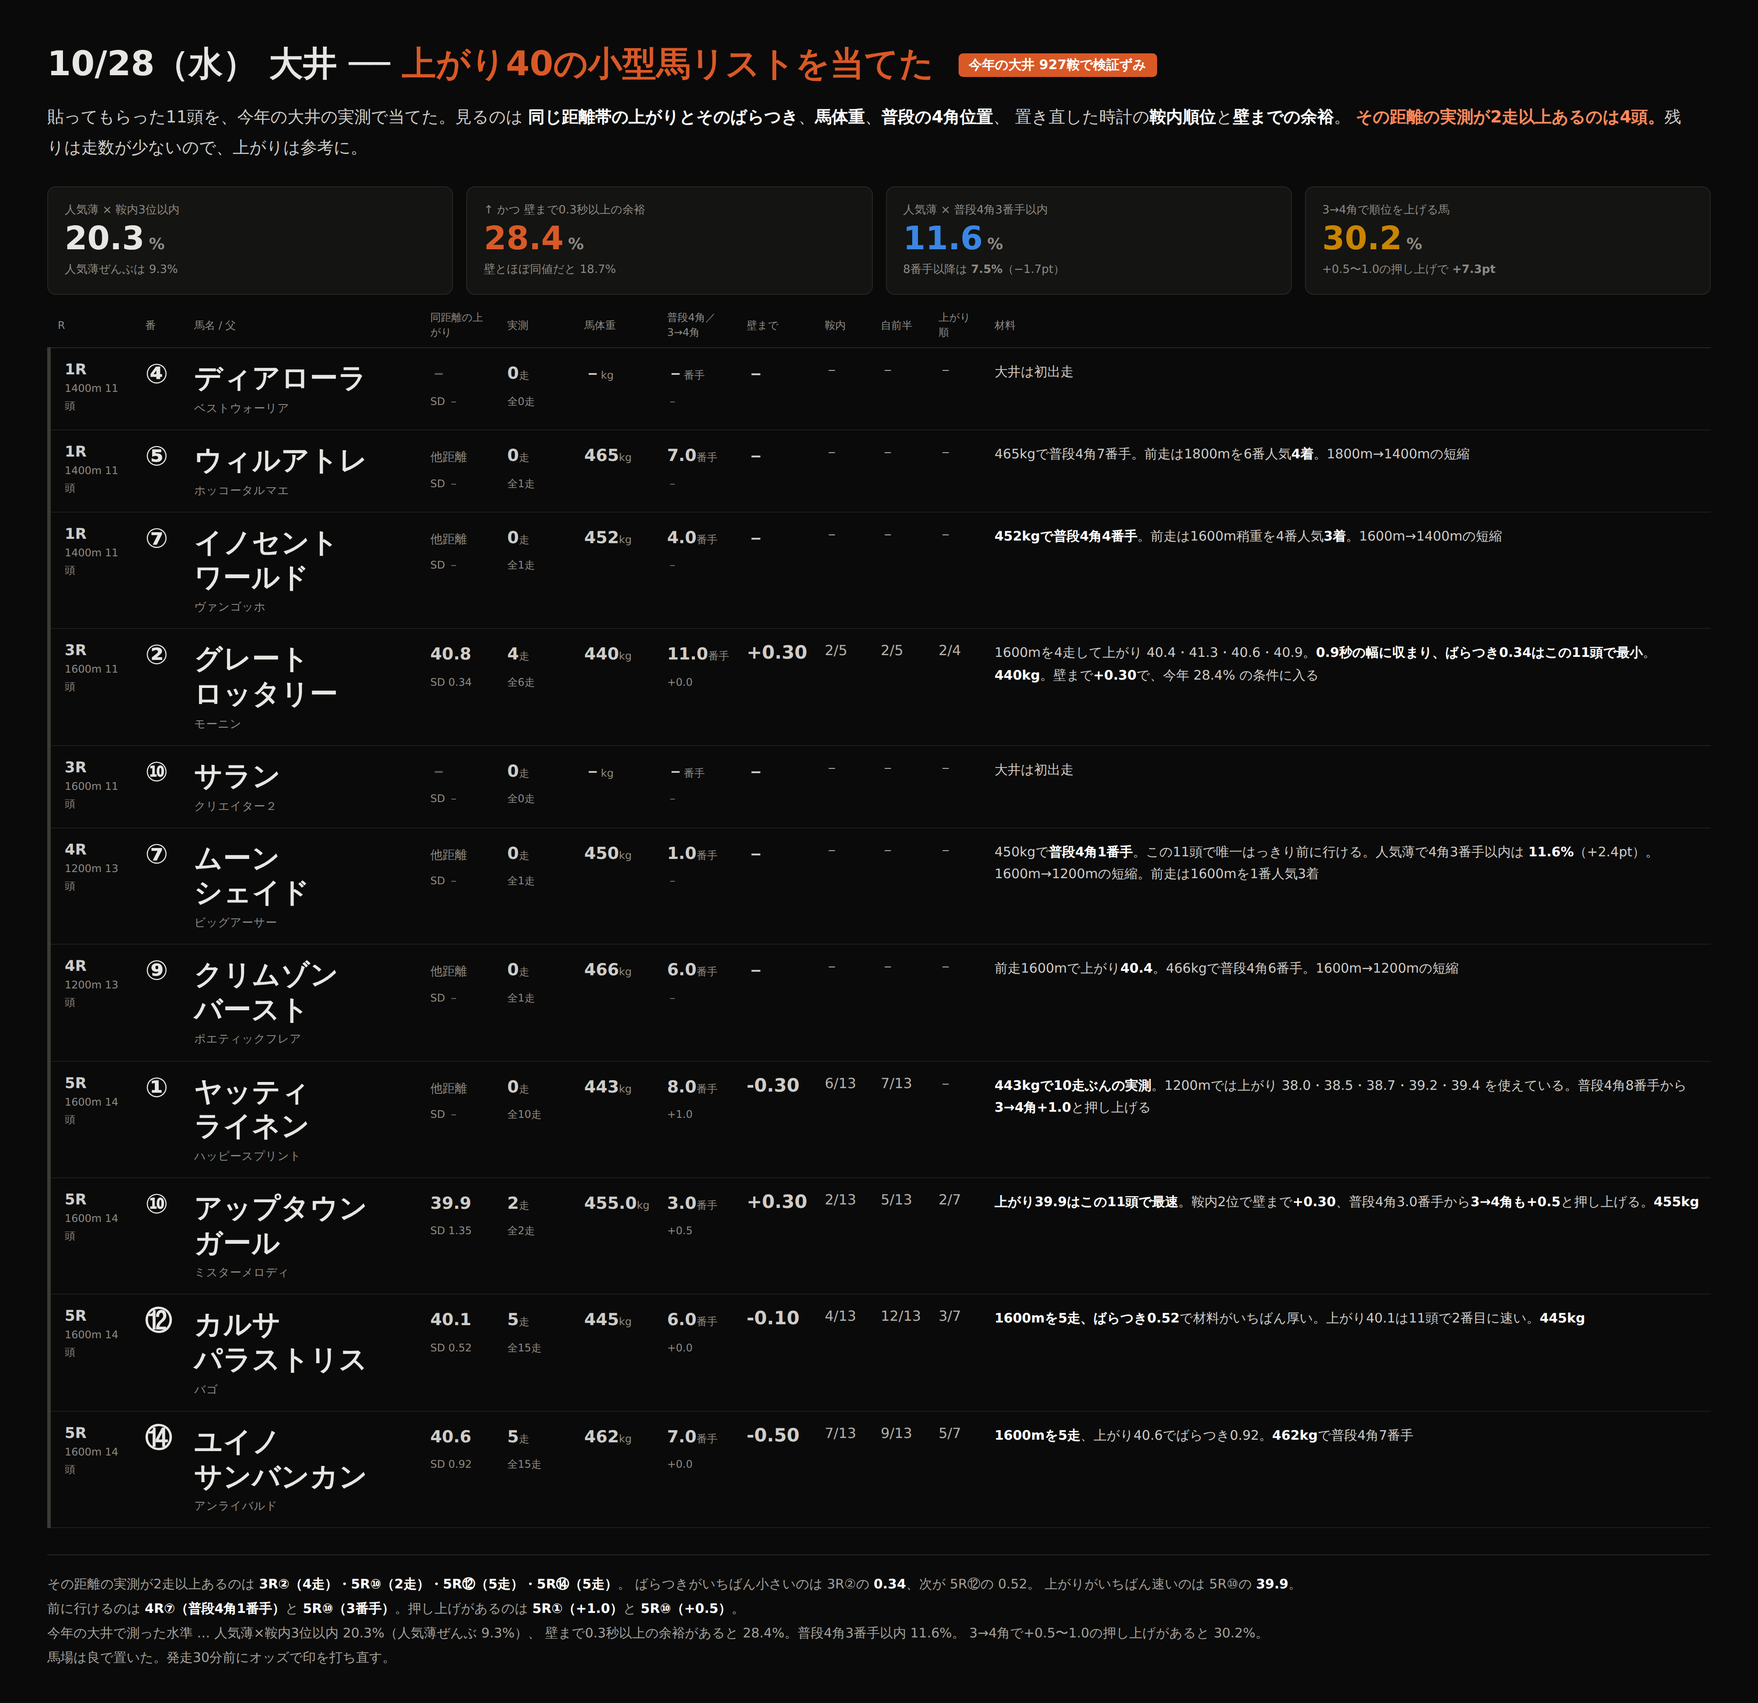
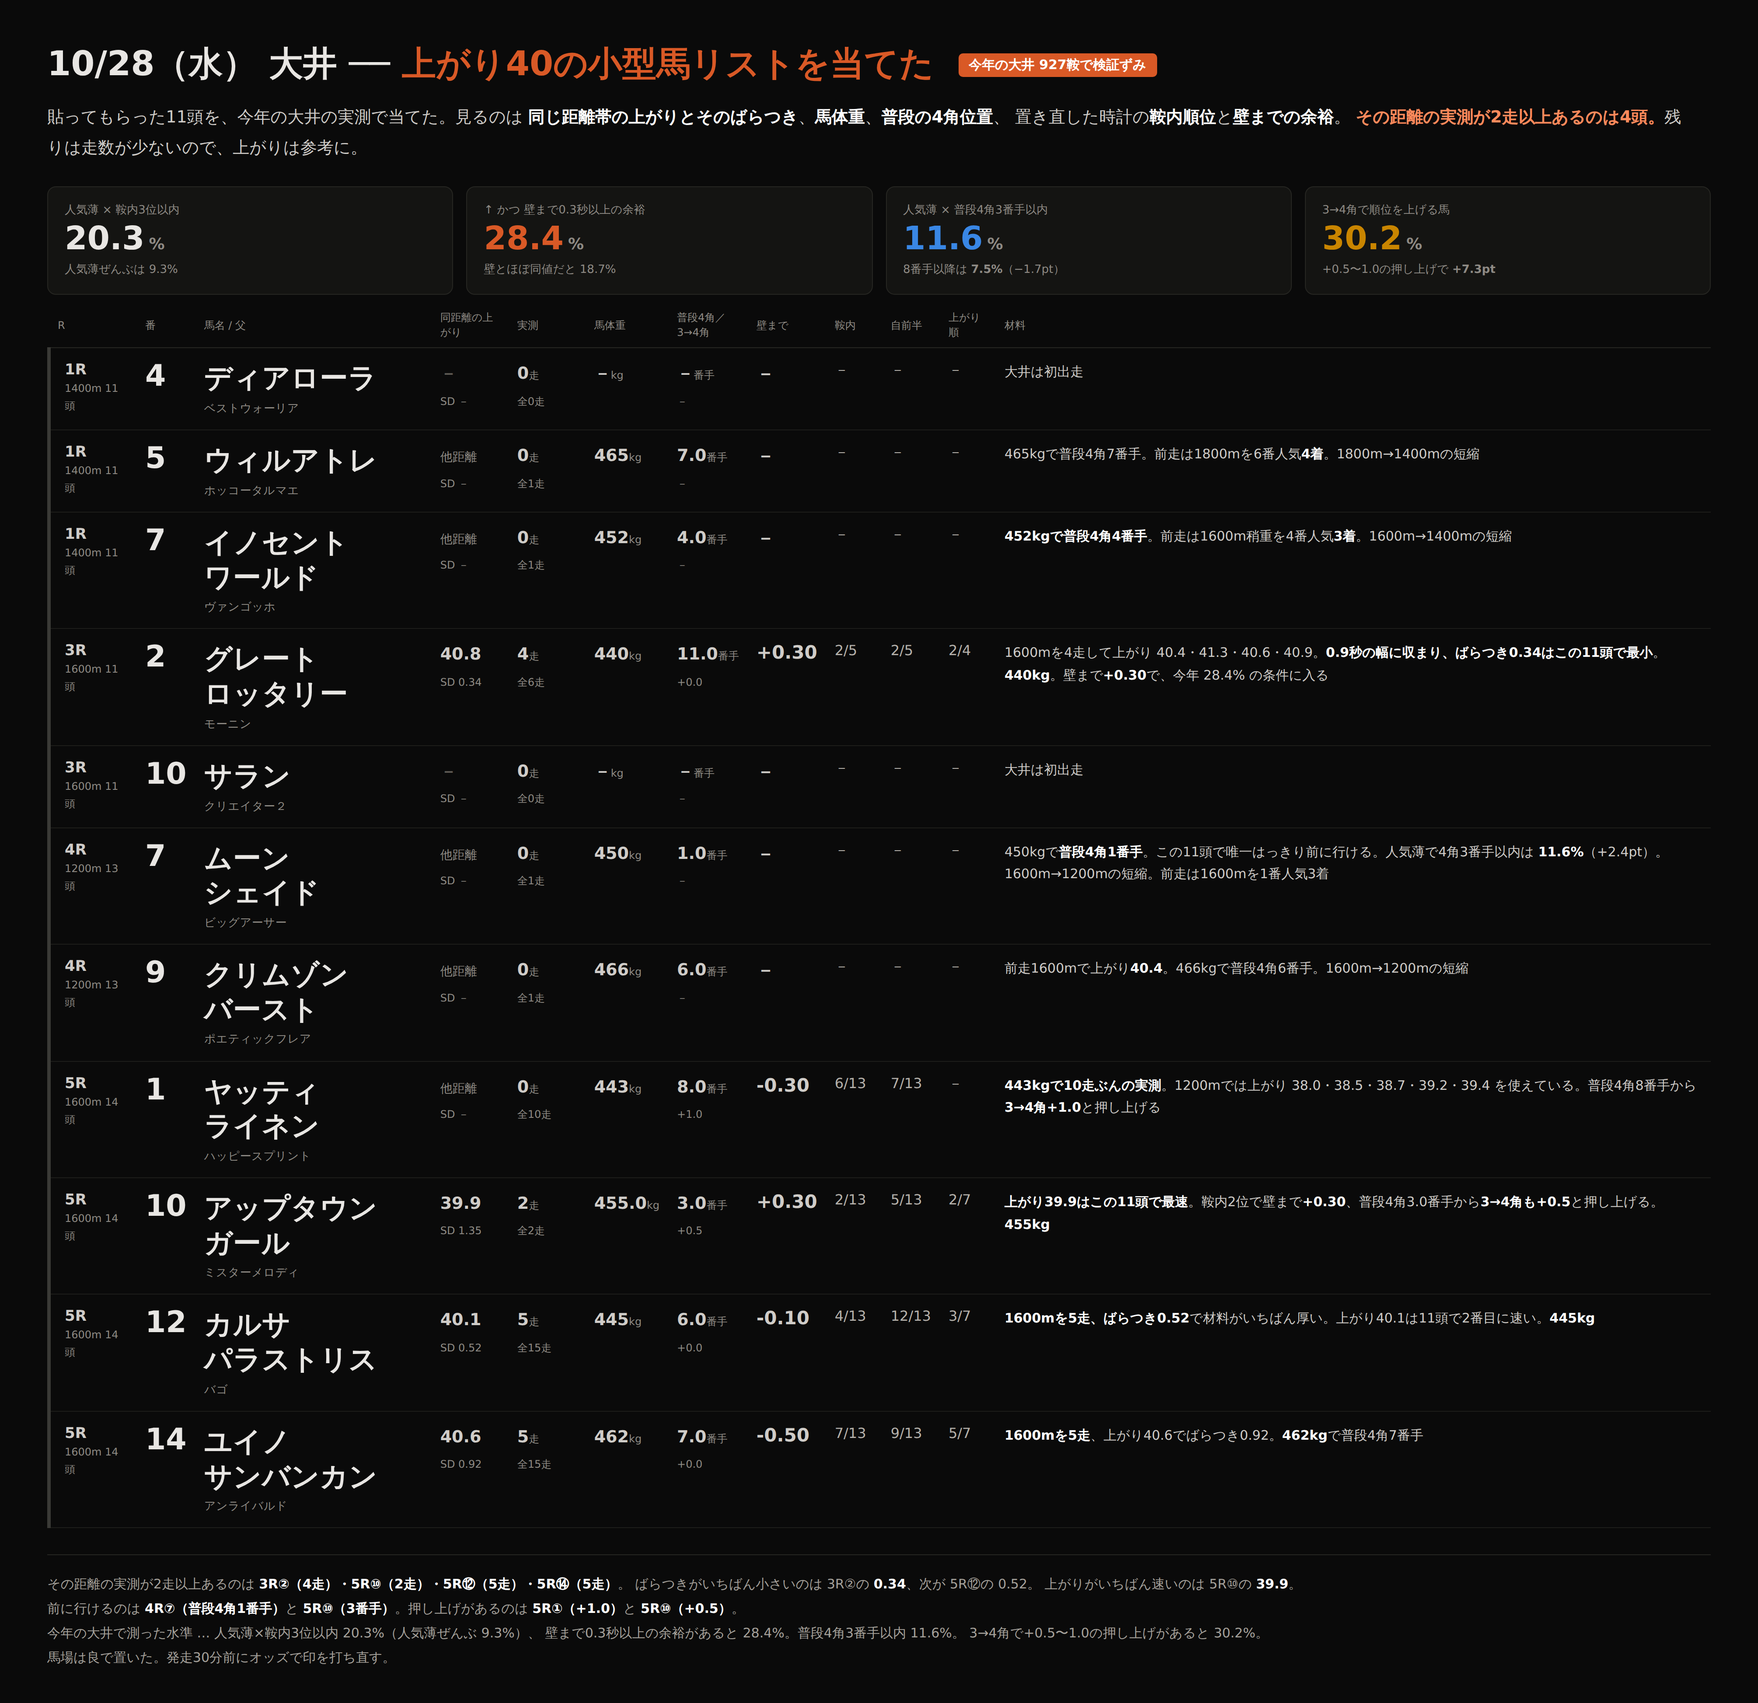
リストのカード：馬番は丸数字をやめて大きな数字に
Claude-Session: https://claude.ai/code/session_01RoHscZkr96FNaxQWvUqgEw

diff --git a/notes/live/2026-10-28/list.html b/notes/live/2026-10-28/list.html
@@ -21,8 +21,8 @@ td{padding:15px 10px;border-bottom:1px solid #1d1d1a;font-size:16px;vertical-ali
 .r{width:100px;color:#cfccc8;font-weight:700;font-size:17px;
  border-left:4px solid #3a3a36;padding-left:16px}
 .dm{font-size:12px;color:#8e8a84;font-weight:500}
-.u{width:56px;font-weight:800;font-size:31px;color:#e8e6e3;
- line-height:1}
+.u{width:62px;font-weight:800;font-size:34px;color:#e8e6e3;line-height:1;
+ font-variant-numeric:tabular-nums}
 .nm{width:270px;font-weight:800;font-size:32px;line-height:1.24;
  letter-spacing:.01em}
 .si{display:block;font-size:13px;font-weight:500;color:#8e8a84;margin-top:7px}
@@ -64,7 +64,7 @@ footer b{color:#fff} footer .hl{color:#ff8a5c;font-weight:700}
 <table><thead><tr><th>R</th><th>番</th><th>馬名 / 父</th>
 <th>同距離の上がり</th><th>実測</th><th>馬体重</th><th>普段4角／3→4角</th>
 <th>壁まで</th><th>鞍内</th><th>自前半</th><th>上がり順</th><th>材料</th></tr></thead>
-<tbody><tr><td class=r>1R<br><span class=dm>1400m 11頭</span></td><td class=u>④</td><td class=nm>ディアローラ<span class=si>ベストウォーリア</span></td><td class="sm dim">－<br><span class=un>SD －</span></td><td class=sm>0<span class=un>走</span><br><span class=un>全0走</span></td><td class=sm>－<span class=un>kg</span></td><td class=sm>－<span class=un>番手</span><br><span class=un>－</span></td><td class=big>－</td><td class=rk>－</td><td class=rk>－</td><td class=rk>－</td><td class=why>大井は初出走</td></tr><tr><td class=r>1R<br><span class=dm>1400m 11頭</span></td><td class=u>⑤</td><td class=nm>ウィルアトレ<span class=si>ホッコータルマエ</span></td><td class="sm dim"><span class=w>他距離</span><br><span class=un>SD －</span></td><td class=sm>0<span class=un>走</span><br><span class=un>全1走</span></td><td class=sm>465<span class=un>kg</span></td><td class=sm>7.0<span class=un>番手</span><br><span class=un>－</span></td><td class=big>－</td><td class=rk>－</td><td class=rk>－</td><td class=rk>－</td><td class=why>465kgで普段4角7番手。前走は1800mを6番人気<b>4着</b>。1800m→1400mの短縮</td></tr><tr><td class=r>1R<br><span class=dm>1400m 11頭</span></td><td class=u>⑦</td><td class=nm>イノセント<br>ワールド<span class=si>ヴァンゴッホ</span></td><td class="sm dim"><span class=w>他距離</span><br><span class=un>SD －</span></td><td class=sm>0<span class=un>走</span><br><span class=un>全1走</span></td><td class=sm>452<span class=un>kg</span></td><td class=sm>4.0<span class=un>番手</span><br><span class=un>－</span></td><td class=big>－</td><td class=rk>－</td><td class=rk>－</td><td class=rk>－</td><td class=why><b>452kgで普段4角4番手</b>。前走は1600m稍重を4番人気<b>3着</b>。1600m→1400mの短縮</td></tr><tr><td class=r>3R<br><span class=dm>1600m 11頭</span></td><td class=u>②</td><td class=nm>グレート<br>ロッタリー<span class=si>モーニン</span></td><td class="sm">40.8<br><span class=un>SD 0.34</span></td><td class=sm>4<span class=un>走</span><br><span class=un>全6走</span></td><td class=sm>440<span class=un>kg</span></td><td class=sm>11.0<span class=un>番手</span><br><span class=un>+0.0</span></td><td class=big>+0.30</td><td class=rk>2/5</td><td class=rk>2/5</td><td class=rk>2/4</td><td class=why>1600mを4走して上がり 40.4・41.3・40.6・40.9。<b>0.9秒の幅に収まり、ばらつき0.34はこの11頭で最小</b>。<b>440kg</b>。壁まで<b>+0.30</b>で、今年 28.4% の条件に入る</td></tr><tr><td class=r>3R<br><span class=dm>1600m 11頭</span></td><td class=u>⑩</td><td class=nm>サラン<span class=si>クリエイター２</span></td><td class="sm dim">－<br><span class=un>SD －</span></td><td class=sm>0<span class=un>走</span><br><span class=un>全0走</span></td><td class=sm>－<span class=un>kg</span></td><td class=sm>－<span class=un>番手</span><br><span class=un>－</span></td><td class=big>－</td><td class=rk>－</td><td class=rk>－</td><td class=rk>－</td><td class=why>大井は初出走</td></tr><tr><td class=r>4R<br><span class=dm>1200m 13頭</span></td><td class=u>⑦</td><td class=nm>ムーン<br>シェイド<span class=si>ビッグアーサー</span></td><td class="sm dim"><span class=w>他距離</span><br><span class=un>SD －</span></td><td class=sm>0<span class=un>走</span><br><span class=un>全1走</span></td><td class=sm>450<span class=un>kg</span></td><td class=sm>1.0<span class=un>番手</span><br><span class=un>－</span></td><td class=big>－</td><td class=rk>－</td><td class=rk>－</td><td class=rk>－</td><td class=why>450kgで<b>普段4角1番手</b>。この11頭で唯一はっきり前に行ける。人気薄で4角3番手以内は <b>11.6%</b>（+2.4pt）。1600m→1200mの短縮。前走は1600mを1番人気3着</td></tr><tr><td class=r>4R<br><span class=dm>1200m 13頭</span></td><td class=u>⑨</td><td class=nm>クリムゾン<br>バースト<span class=si>ポエティックフレア</span></td><td class="sm dim"><span class=w>他距離</span><br><span class=un>SD －</span></td><td class=sm>0<span class=un>走</span><br><span class=un>全1走</span></td><td class=sm>466<span class=un>kg</span></td><td class=sm>6.0<span class=un>番手</span><br><span class=un>－</span></td><td class=big>－</td><td class=rk>－</td><td class=rk>－</td><td class=rk>－</td><td class=why>前走1600mで上がり<b>40.4</b>。466kgで普段4角6番手。1600m→1200mの短縮</td></tr><tr><td class=r>5R<br><span class=dm>1600m 14頭</span></td><td class=u>①</td><td class=nm>ヤッティ<br>ライネン<span class=si>ハッピースプリント</span></td><td class="sm dim"><span class=w>他距離</span><br><span class=un>SD －</span></td><td class=sm>0<span class=un>走</span><br><span class=un>全10走</span></td><td class=sm>443<span class=un>kg</span></td><td class=sm>8.0<span class=un>番手</span><br><span class=un>+1.0</span></td><td class=big>-0.30</td><td class=rk>6/13</td><td class=rk>7/13</td><td class=rk>－</td><td class=why><b>443kgで10走ぶんの実測</b>。1200mでは上がり 38.0・38.5・38.7・39.2・39.4 を使えている。普段4角8番手から<b>3→4角+1.0</b>と押し上げる</td></tr><tr><td class=r>5R<br><span class=dm>1600m 14頭</span></td><td class=u>⑩</td><td class=nm>アップタウン<br>ガール<span class=si>ミスターメロディ</span></td><td class="sm">39.9<br><span class=un>SD 1.35</span></td><td class=sm>2<span class=un>走</span><br><span class=un>全2走</span></td><td class=sm>455.0<span class=un>kg</span></td><td class=sm>3.0<span class=un>番手</span><br><span class=un>+0.5</span></td><td class=big>+0.30</td><td class=rk>2/13</td><td class=rk>5/13</td><td class=rk>2/7</td><td class=why><b>上がり39.9はこの11頭で最速</b>。鞍内2位で壁まで<b>+0.30</b>、普段4角3.0番手から<b>3→4角も+0.5</b>と押し上げる。<b>455kg</b></td></tr><tr><td class=r>5R<br><span class=dm>1600m 14頭</span></td><td class=u>⑫</td><td class=nm>カルサ<br>パラストリス<span class=si>バゴ</span></td><td class="sm">40.1<br><span class=un>SD 0.52</span></td><td class=sm>5<span class=un>走</span><br><span class=un>全15走</span></td><td class=sm>445<span class=un>kg</span></td><td class=sm>6.0<span class=un>番手</span><br><span class=un>+0.0</span></td><td class=big>-0.10</td><td class=rk>4/13</td><td class=rk>12/13</td><td class=rk>3/7</td><td class=why><b>1600mを5走、ばらつき0.52</b>で材料がいちばん厚い。上がり40.1は11頭で2番目に速い。<b>445kg</b></td></tr><tr><td class=r>5R<br><span class=dm>1600m 14頭</span></td><td class=u>⑭</td><td class=nm>ユイノ<br>サンバンカン<span class=si>アンライバルド</span></td><td class="sm">40.6<br><span class=un>SD 0.92</span></td><td class=sm>5<span class=un>走</span><br><span class=un>全15走</span></td><td class=sm>462<span class=un>kg</span></td><td class=sm>7.0<span class=un>番手</span><br><span class=un>+0.0</span></td><td class=big>-0.50</td><td class=rk>7/13</td><td class=rk>9/13</td><td class=rk>5/7</td><td class=why><b>1600mを5走</b>、上がり40.6でばらつき0.92。<b>462kg</b>で普段4角7番手</td></tr></tbody></table>
+<tbody><tr><td class=r>1R<br><span class=dm>1400m 11頭</span></td><td class=u>4</td><td class=nm>ディアローラ<span class=si>ベストウォーリア</span></td><td class="sm dim">－<br><span class=un>SD －</span></td><td class=sm>0<span class=un>走</span><br><span class=un>全0走</span></td><td class=sm>－<span class=un>kg</span></td><td class=sm>－<span class=un>番手</span><br><span class=un>－</span></td><td class=big>－</td><td class=rk>－</td><td class=rk>－</td><td class=rk>－</td><td class=why>大井は初出走</td></tr><tr><td class=r>1R<br><span class=dm>1400m 11頭</span></td><td class=u>5</td><td class=nm>ウィルアトレ<span class=si>ホッコータルマエ</span></td><td class="sm dim"><span class=w>他距離</span><br><span class=un>SD －</span></td><td class=sm>0<span class=un>走</span><br><span class=un>全1走</span></td><td class=sm>465<span class=un>kg</span></td><td class=sm>7.0<span class=un>番手</span><br><span class=un>－</span></td><td class=big>－</td><td class=rk>－</td><td class=rk>－</td><td class=rk>－</td><td class=why>465kgで普段4角7番手。前走は1800mを6番人気<b>4着</b>。1800m→1400mの短縮</td></tr><tr><td class=r>1R<br><span class=dm>1400m 11頭</span></td><td class=u>7</td><td class=nm>イノセント<br>ワールド<span class=si>ヴァンゴッホ</span></td><td class="sm dim"><span class=w>他距離</span><br><span class=un>SD －</span></td><td class=sm>0<span class=un>走</span><br><span class=un>全1走</span></td><td class=sm>452<span class=un>kg</span></td><td class=sm>4.0<span class=un>番手</span><br><span class=un>－</span></td><td class=big>－</td><td class=rk>－</td><td class=rk>－</td><td class=rk>－</td><td class=why><b>452kgで普段4角4番手</b>。前走は1600m稍重を4番人気<b>3着</b>。1600m→1400mの短縮</td></tr><tr><td class=r>3R<br><span class=dm>1600m 11頭</span></td><td class=u>2</td><td class=nm>グレート<br>ロッタリー<span class=si>モーニン</span></td><td class="sm">40.8<br><span class=un>SD 0.34</span></td><td class=sm>4<span class=un>走</span><br><span class=un>全6走</span></td><td class=sm>440<span class=un>kg</span></td><td class=sm>11.0<span class=un>番手</span><br><span class=un>+0.0</span></td><td class=big>+0.30</td><td class=rk>2/5</td><td class=rk>2/5</td><td class=rk>2/4</td><td class=why>1600mを4走して上がり 40.4・41.3・40.6・40.9。<b>0.9秒の幅に収まり、ばらつき0.34はこの11頭で最小</b>。<b>440kg</b>。壁まで<b>+0.30</b>で、今年 28.4% の条件に入る</td></tr><tr><td class=r>3R<br><span class=dm>1600m 11頭</span></td><td class=u>10</td><td class=nm>サラン<span class=si>クリエイター２</span></td><td class="sm dim">－<br><span class=un>SD －</span></td><td class=sm>0<span class=un>走</span><br><span class=un>全0走</span></td><td class=sm>－<span class=un>kg</span></td><td class=sm>－<span class=un>番手</span><br><span class=un>－</span></td><td class=big>－</td><td class=rk>－</td><td class=rk>－</td><td class=rk>－</td><td class=why>大井は初出走</td></tr><tr><td class=r>4R<br><span class=dm>1200m 13頭</span></td><td class=u>7</td><td class=nm>ムーン<br>シェイド<span class=si>ビッグアーサー</span></td><td class="sm dim"><span class=w>他距離</span><br><span class=un>SD －</span></td><td class=sm>0<span class=un>走</span><br><span class=un>全1走</span></td><td class=sm>450<span class=un>kg</span></td><td class=sm>1.0<span class=un>番手</span><br><span class=un>－</span></td><td class=big>－</td><td class=rk>－</td><td class=rk>－</td><td class=rk>－</td><td class=why>450kgで<b>普段4角1番手</b>。この11頭で唯一はっきり前に行ける。人気薄で4角3番手以内は <b>11.6%</b>（+2.4pt）。1600m→1200mの短縮。前走は1600mを1番人気3着</td></tr><tr><td class=r>4R<br><span class=dm>1200m 13頭</span></td><td class=u>9</td><td class=nm>クリムゾン<br>バースト<span class=si>ポエティックフレア</span></td><td class="sm dim"><span class=w>他距離</span><br><span class=un>SD －</span></td><td class=sm>0<span class=un>走</span><br><span class=un>全1走</span></td><td class=sm>466<span class=un>kg</span></td><td class=sm>6.0<span class=un>番手</span><br><span class=un>－</span></td><td class=big>－</td><td class=rk>－</td><td class=rk>－</td><td class=rk>－</td><td class=why>前走1600mで上がり<b>40.4</b>。466kgで普段4角6番手。1600m→1200mの短縮</td></tr><tr><td class=r>5R<br><span class=dm>1600m 14頭</span></td><td class=u>1</td><td class=nm>ヤッティ<br>ライネン<span class=si>ハッピースプリント</span></td><td class="sm dim"><span class=w>他距離</span><br><span class=un>SD －</span></td><td class=sm>0<span class=un>走</span><br><span class=un>全10走</span></td><td class=sm>443<span class=un>kg</span></td><td class=sm>8.0<span class=un>番手</span><br><span class=un>+1.0</span></td><td class=big>-0.30</td><td class=rk>6/13</td><td class=rk>7/13</td><td class=rk>－</td><td class=why><b>443kgで10走ぶんの実測</b>。1200mでは上がり 38.0・38.5・38.7・39.2・39.4 を使えている。普段4角8番手から<b>3→4角+1.0</b>と押し上げる</td></tr><tr><td class=r>5R<br><span class=dm>1600m 14頭</span></td><td class=u>10</td><td class=nm>アップタウン<br>ガール<span class=si>ミスターメロディ</span></td><td class="sm">39.9<br><span class=un>SD 1.35</span></td><td class=sm>2<span class=un>走</span><br><span class=un>全2走</span></td><td class=sm>455.0<span class=un>kg</span></td><td class=sm>3.0<span class=un>番手</span><br><span class=un>+0.5</span></td><td class=big>+0.30</td><td class=rk>2/13</td><td class=rk>5/13</td><td class=rk>2/7</td><td class=why><b>上がり39.9はこの11頭で最速</b>。鞍内2位で壁まで<b>+0.30</b>、普段4角3.0番手から<b>3→4角も+0.5</b>と押し上げる。<b>455kg</b></td></tr><tr><td class=r>5R<br><span class=dm>1600m 14頭</span></td><td class=u>12</td><td class=nm>カルサ<br>パラストリス<span class=si>バゴ</span></td><td class="sm">40.1<br><span class=un>SD 0.52</span></td><td class=sm>5<span class=un>走</span><br><span class=un>全15走</span></td><td class=sm>445<span class=un>kg</span></td><td class=sm>6.0<span class=un>番手</span><br><span class=un>+0.0</span></td><td class=big>-0.10</td><td class=rk>4/13</td><td class=rk>12/13</td><td class=rk>3/7</td><td class=why><b>1600mを5走、ばらつき0.52</b>で材料がいちばん厚い。上がり40.1は11頭で2番目に速い。<b>445kg</b></td></tr><tr><td class=r>5R<br><span class=dm>1600m 14頭</span></td><td class=u>14</td><td class=nm>ユイノ<br>サンバンカン<span class=si>アンライバルド</span></td><td class="sm">40.6<br><span class=un>SD 0.92</span></td><td class=sm>5<span class=un>走</span><br><span class=un>全15走</span></td><td class=sm>462<span class=un>kg</span></td><td class=sm>7.0<span class=un>番手</span><br><span class=un>+0.0</span></td><td class=big>-0.50</td><td class=rk>7/13</td><td class=rk>9/13</td><td class=rk>5/7</td><td class=why><b>1600mを5走</b>、上がり40.6でばらつき0.92。<b>462kg</b>で普段4角7番手</td></tr></tbody></table>
 <footer>
 その距離の実測が2走以上あるのは <b>3R②（4走）・5R⑩（2走）・5R⑫（5走）・5R⑭（5走）</b>。
 ばらつきがいちばん小さいのは 3R②の <b>0.34</b>、次が 5R⑫の 0.52。
